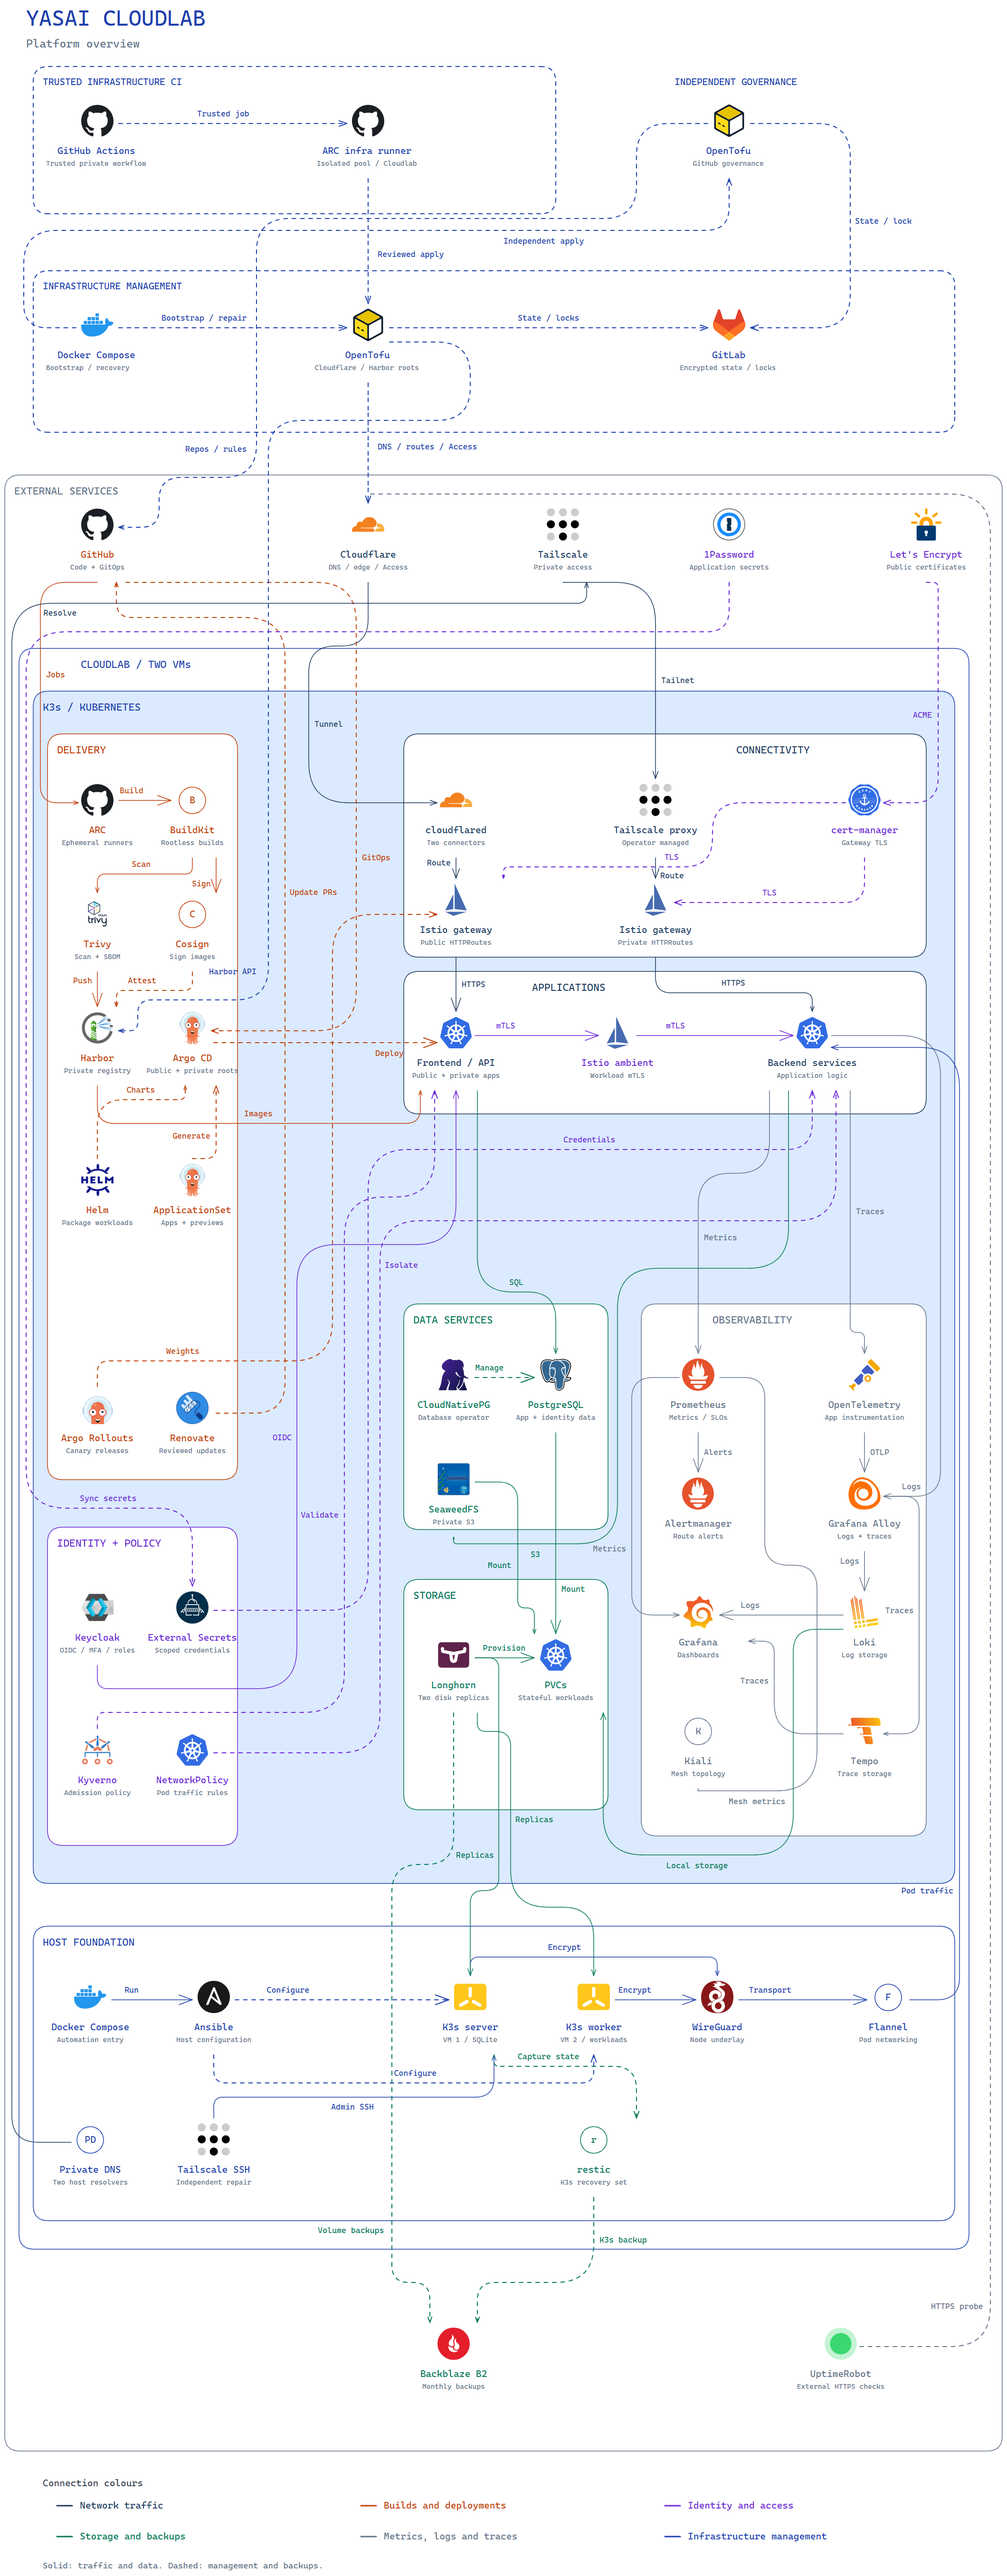
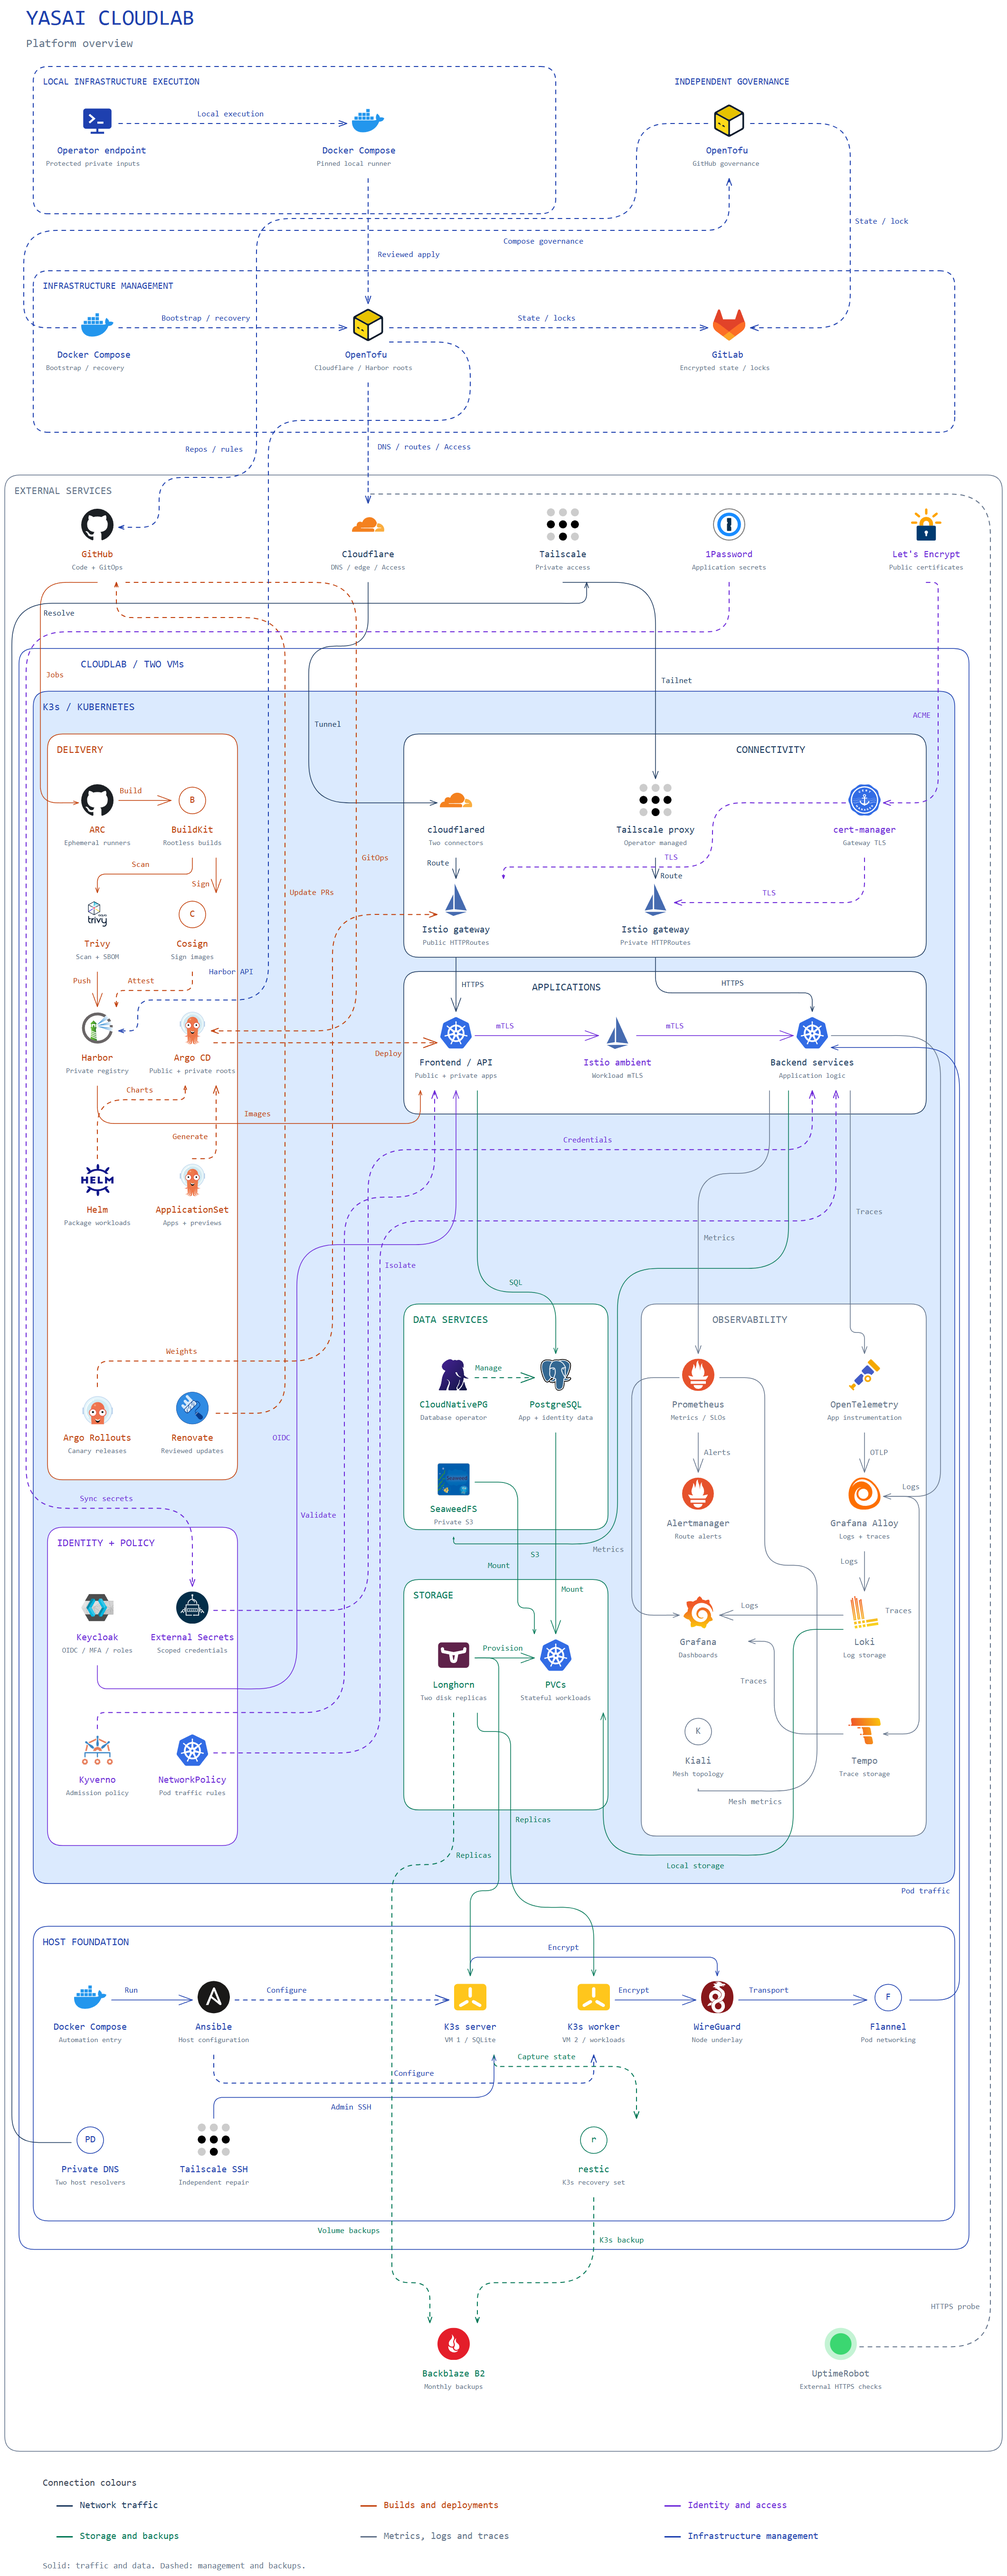
docs: align OpenTofu diagrams with local Compose execution

diff --git a/README.md b/README.md
@@ -152,8 +152,8 @@ volume.
 | --- | --- | --- |
 | Ansible | Configure and verify hosts and the cluster | Available |
 | Docker Compose | Run the pinned automation environment | Available |
-| OpenTofu | Manage external resources, with Compose for bootstrap and recovery | In progress ([#122](https://github.com/UncleThreeHomeLab/yasai-cloudlab/pull/122)) |
-| GitHub Actions | Trusted builds and infrastructure jobs through ARC | Planned |
+| OpenTofu | Manage external resources locally through Compose | In progress ([#122](https://github.com/UncleThreeHomeLab/yasai-cloudlab/pull/122)) |
+| GitHub Actions | Trusted application builds through ARC | Planned |
 | Renovate | Reviewed dependency updates | Planned |
 
 ## Detailed flows
@@ -187,8 +187,8 @@ Istio encrypts traffic between workloads and checks which services may communica
 
 GitHub Actions runs trusted builds on ARC workers in Cloudlab. Images are built,
 scanned, signed and stored in Harbor. Argo CD reads public or private GitOps repos
-and deploys the selected images. Dedicated infrastructure runners execute OpenTofu.
-GitHub governance runs separately through Compose.
+and deploys the selected images. OpenTofu runs locally through Compose on a trusted
+operator endpoint. GitHub governance uses a separate Compose client.
 
 ![Delivery](assets/delivery.png)
 
@@ -218,9 +218,10 @@ routes alerts. UptimeRobot checks public access independently. Telemetry stays o
 
 ### Foundation
 
-Compose runs Ansible to configure both VMs and K3s. Dedicated ARC runners apply
-reviewed OpenTofu changes to Cloudflare and Harbor, with encrypted state in GitLab.
-Compose remains available for bootstrap, recovery and GitHub governance.
+Compose runs Ansible to configure both VMs and K3s. A trusted operator endpoint
+runs Compose to apply reviewed OpenTofu changes to Cloudflare and Harbor, with
+encrypted state and separate locks per root in GitLab. Compose also handles
+bootstrap, recovery and separate GitHub governance.
 K3s recovery uses a separate monthly restic backup to B2.
 
 ![Foundation](assets/foundation.png)
